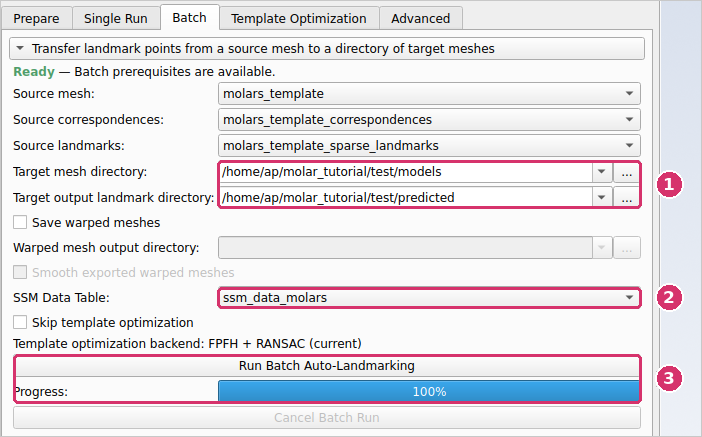
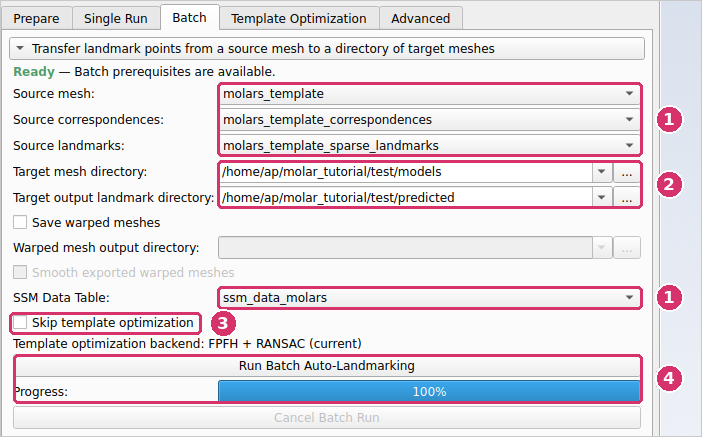
Make setup script cross-platform and fix screenshot callout numbering
- setup_molar_tutorial.py: accept pasted Windows paths (raw string),
  find molar/<run>/alignedModels anywhere under DATA, and raise
  FileNotFoundError instead of SystemExit, which quit Slicer
- check_accuracy.py: read markup JSON as UTF-8
- Batch and Single Run screenshots: callout numbers now match the step
  numbers; the batch callout for Skip template optimization pointed at
  SSM Data Table

diff --git a/scripts/setup_molar_tutorial.py b/scripts/setup_molar_tutorial.py
@@ -2,30 +2,42 @@
 
 Paste into the Slicer Python console (View > Python Console).
 Copies 110 molars into train/ and holds 5 out in test/.
+Works on Windows, macOS and Linux.
 """
 import glob, os, shutil
 
-# 1) EDIT THIS: the folder you extracted from data.zip
-DATA = os.path.expanduser("~/Downloads/data/molar/2026_06-12_19_24_15")
+# 1) EDIT THIS: where you extracted data.zip. Paste the path between the quotes as-is;
+#    the r"..." keeps Windows backslashes working. Examples:
+#      Windows: r"C:\Users\you\Downloads\data"
+#      macOS:   r"~/Downloads/data"
+#      Linux:   r"~/Downloads"
+DATA = r"~/Downloads/data"
 
 # 2) Where the tutorial will work (created for you)
 WORK = os.path.expanduser("~/molar_tutorial")
 
 HELD_OUT = ["a10", "h08", "k01", "q02", "x02"]   # 5 molars kept out of the atlas
 
-if not os.path.isdir(os.path.join(DATA, "alignedModels")):
-    raise SystemExit(f"Can't find alignedModels/ inside {DATA} - check the DATA path above.")
+# Find molar/<run>/alignedModels under DATA, wherever your unzip tool put it
+DATA = os.path.expanduser(DATA.strip().strip('"'))
+found = [d for d in sorted(glob.glob(os.path.join(DATA, "**", "alignedModels"), recursive=True))
+         if "molar" in os.path.normpath(d).split(os.sep)]
 
+if not found:
+    raise FileNotFoundError(f"No molar/.../alignedModels folder found under {DATA}. Check the DATA path above.")
+
+SRC = os.path.dirname(found[0])
+print("Using data in", SRC)
 for sub in ("train/models", "train/landmarks", "test/models", "test/landmarks",
             "test/predicted", "output", "segmentation"):
     os.makedirs(os.path.join(WORK, sub), exist_ok=True)
 
-for mesh in glob.glob(os.path.join(DATA, "alignedModels", "*.ply")):
+for mesh in glob.glob(os.path.join(SRC, "alignedModels", "*.ply")):
     stem = os.path.basename(mesh)[:-len(".ply")]
-    lms = os.path.join(DATA, "alignedLMs", stem + ".mrk.json")
+    lms = os.path.join(SRC, "alignedLMs", stem + ".mrk.json")
     split = "test" if stem.split("_")[0] in HELD_OUT else "train"
     shutil.copy(mesh, os.path.join(WORK, split, "models"))
     shutil.copy(lms, os.path.join(WORK, split, "landmarks"))
 
 for split in ("train", "test"):
-    print(split, len(os.listdir(os.path.join(WORK, split, "models"))), "molars")
+    print(split, len(os.listdir(os.path.join(WORK, split, "models"))), "molars ->", os.path.join(WORK, split))

diff --git a/scripts/check_accuracy.py b/scripts/check_accuracy.py
@@ -10,7 +10,8 @@ import vtk
 WORK = os.path.expanduser("~/molar_tutorial")
 
 def read_points(path):
-    markup = json.load(open(path))["markups"][0]
+    with open(path, encoding="utf-8") as f:
+        markup = json.load(f)["markups"][0]
     pts = np.array([p["position"] for p in markup["controlPoints"]])
     return pts * [-1, -1, 1] if markup.get("coordinateSystem", "LPS") == "LPS" else pts
 

diff --git a/README.md b/README.md
@@ -36,7 +36,7 @@ In this tutorial you'll use **MorphoWeave** in 3D Slicer to:
 ### 0.2 Download the data
 
 1. Open the [MorphoWeave Figshare dataset](https://figshare.com/s/3ff773754624c9132e3e) and click **Download** (`data.zip`, 1.17 GB).
-2. Extract it. You only need this folder:
+2. Extract it. Windows (**Extract All**) and macOS (double-click) put the contents in a folder named `data`. On Linux, `unzip` extracts into the current folder. You only need this folder:
 
 ```text
 data/molar/2026_06-12_19_24_15/
@@ -77,38 +77,49 @@ molar_tutorial/
 <details>
 <summary><b>Option A: copy and paste into Slicer (recommended)</b></summary>
 
-Open **View → Python Console** in Slicer. Edit the `DATA` line to point to your extracted folder, then paste the following and press <kbd>Enter</kbd>. The script is also saved as [`scripts/setup_molar_tutorial.py`](scripts/setup_molar_tutorial.py).
+Open **View → Python Console** in Slicer. Change the path inside `DATA = r"..."` to the folder where you extracted `data.zip`, then paste the whole block into the console and press <kbd>Enter</kbd>. It works on Windows, macOS, and Linux. You can paste a Windows path with backslashes as-is, and the script finds the `molar` folder anywhere inside the path you give it. The script is also saved as [`scripts/setup_molar_tutorial.py`](scripts/setup_molar_tutorial.py).
 
 ```python
 import glob, os, shutil
 
-# 1) EDIT THIS: the folder you extracted from data.zip
-DATA = os.path.expanduser("~/Downloads/data/molar/2026_06-12_19_24_15")
+# 1) EDIT THIS: where you extracted data.zip. Paste the path between the quotes as-is;
+#    the r"..." keeps Windows backslashes working. Examples:
+#      Windows: r"C:\Users\you\Downloads\data"
+#      macOS:   r"~/Downloads/data"
+#      Linux:   r"~/Downloads"
+DATA = r"~/Downloads/data"
 
 # 2) Where the tutorial will work (created for you)
 WORK = os.path.expanduser("~/molar_tutorial")
 
 HELD_OUT = ["a10", "h08", "k01", "q02", "x02"]   # 5 molars kept out of the atlas
 
-if not os.path.isdir(os.path.join(DATA, "alignedModels")):
-    raise SystemExit(f"Can't find alignedModels/ inside {DATA} - check the DATA path above.")
+# Find molar/<run>/alignedModels under DATA, wherever your unzip tool put it
+DATA = os.path.expanduser(DATA.strip().strip('"'))
+found = [d for d in sorted(glob.glob(os.path.join(DATA, "**", "alignedModels"), recursive=True))
+         if "molar" in os.path.normpath(d).split(os.sep)]
 
+if not found:
+    raise FileNotFoundError(f"No molar/.../alignedModels folder found under {DATA}. Check the DATA path above.")
+
+SRC = os.path.dirname(found[0])
+print("Using data in", SRC)
 for sub in ("train/models", "train/landmarks", "test/models", "test/landmarks",
             "test/predicted", "output", "segmentation"):
     os.makedirs(os.path.join(WORK, sub), exist_ok=True)
 
-for mesh in glob.glob(os.path.join(DATA, "alignedModels", "*.ply")):
+for mesh in glob.glob(os.path.join(SRC, "alignedModels", "*.ply")):
     stem = os.path.basename(mesh)[:-len(".ply")]
-    lms = os.path.join(DATA, "alignedLMs", stem + ".mrk.json")
+    lms = os.path.join(SRC, "alignedLMs", stem + ".mrk.json")
     split = "test" if stem.split("_")[0] in HELD_OUT else "train"
     shutil.copy(mesh, os.path.join(WORK, split, "models"))
     shutil.copy(lms, os.path.join(WORK, split, "landmarks"))
 
 for split in ("train", "test"):
-    print(split, len(os.listdir(os.path.join(WORK, split, "models"))), "molars")
+    print(split, len(os.listdir(os.path.join(WORK, split, "models"))), "molars ->", os.path.join(WORK, split))
 ```
 
-It should print `train 110 molars` and `test 5 molars`.
+It should print `Using data in …`, then `train 110 molars` and `test 5 molars`. If the path is wrong, you'll see a `FileNotFoundError`. Fix `DATA` and paste again.
 
 </details>
 
@@ -252,13 +263,13 @@ Go to **MorphoWeave → Model Library**.
 Start with one held-out molar so you can watch each step.
 
 1. Load the target. Click **Add Data** (top-left toolbar), choose `molar_tutorial/test/models/a10_sas_align.ply`, and click **OK**. Don't load its manual landmarks yet.
-2. Go to **MorphoWeave → Landmark Transfer** and open the **Single Run** tab.
+2. Go to **MorphoWeave → Landmark Transfer** and open the **Single Run** tab. The numbers in the screenshot match steps 3–5 below.
 
 <p align="center"><img src="images/08_landmark_transfer_inputs.png" width="900" alt="Landmark Transfer Single Run tab with template selectors auto-filled, a10_sas_align chosen as target, and the Subsample button highlighted"></p>
 
-3. **①** The three template selectors and **SSM Data Table** are already filled with the `molars_…` nodes you just loaded. If any are empty, pick the matching `molars_…` node.
-4. **②** Set **Target model** to `a10_sas_align`.
-5. **③** Click the four buttons in order. Each one enables the next:
+3. The three template selectors and **SSM Data Table** are already filled with the `molars_…` nodes you just loaded. If any are empty, pick the matching `molars_…` node.
+4. Set **Target model** to `a10_sas_align`.
+5. Click the four buttons in order, starting with **1) Subsample source/target**. Each one enables the next:
 
 | Button | What it does | Time |
 |---|---|---|
@@ -311,14 +322,14 @@ On this specimen the mean distance between predicted and manual landmarks is **2
 
 ## 5. Landmark many molars at once (Landmark Transfer → Batch)
 
-Once a single run looks good, apply the same settings to a whole folder.
+Once a single run looks good, apply the same settings to a whole folder. The numbers in the screenshot match the steps below.
 
 <p align="center"><img src="images/12_batch.png" width="600" alt="Landmark Transfer Batch tab with the target and output directories set, the SSM table selected, and the progress bar at 100%"></p>
 
 1. Open the **Batch** tab. **Source mesh**, **Source correspondences**, **Source landmarks**, and **SSM Data Table** are pre-filled with the `molars_…` nodes.
-2. **①** Set **Target mesh directory** to `molar_tutorial/test/models` and **Target output landmark directory** to `molar_tutorial/test/predicted`.
-3. **②** Leave **Skip template optimization** unticked. Before registering each specimen, MorphoWeave then searches the shape model for a starting template that fits that specimen better.
-4. **③** Click **Run Batch Auto-Landmarking**. The 5 molars take about 40 seconds.
+2. Set **Target mesh directory** to `molar_tutorial/test/models` and **Target output landmark directory** to `molar_tutorial/test/predicted`.
+3. Leave **Skip template optimization** unticked. Before registering each specimen, MorphoWeave then searches the shape model for a starting template that fits that specimen better.
+4. Click **Run Batch Auto-Landmarking**. The 5 molars take about 40 seconds.
 
 **✅ Checkpoint:** The progress bar reaches **100%**, and `test/predicted/` contains five `.mrk.json` files, one per molar, with the same names as the meshes.
 
@@ -338,7 +349,8 @@ import vtk
 WORK = os.path.expanduser("~/molar_tutorial")
 
 def read_points(path):
-    markup = json.load(open(path))["markups"][0]
+    with open(path, encoding="utf-8") as f:
+        markup = json.load(f)["markups"][0]
     pts = np.array([p["position"] for p in markup["controlPoints"]])
     return pts * [-1, -1, 1] if markup.get("coordinateSystem", "LPS") == "LPS" else pts
 
@@ -380,7 +392,7 @@ Go to **MorphoWeave → Surface Segmentation**.
 
 <p align="center"><img src="images/13_segmentation_inputs.png" width="600" alt="Surface Segmentation with aligned models, population correspondences and output folders set; status shows 110 paired specimens detected"></p>
 
-1. **①** Set the folders, using your timestamped Atlas Builder output folder:
+1. Set the folders, using your timestamped Atlas Builder output folder:
 
    | Field | Folder |
    |---|---|
@@ -389,7 +401,7 @@ Go to **MorphoWeave → Surface Segmentation**.
    | **Output folder** | `molar_tutorial/segmentation` |
 
    The status reads **Ready — 110 paired specimens detected.** Meshes and correspondence files are paired by filename.
-2. **②** Click **Run Segmentation**. With the default 15 segments, this takes about 3 minutes.
+2. Click **Run Segmentation**. With the default 15 segments, this takes about 3 minutes.
 
 **✅ Checkpoint:** The status reads **Complete**. The first three specimens are previewed in the scene as `…_seg_preview` models, overlapping because they're aligned. Toggle them one at a time in the **Data** module.
 
